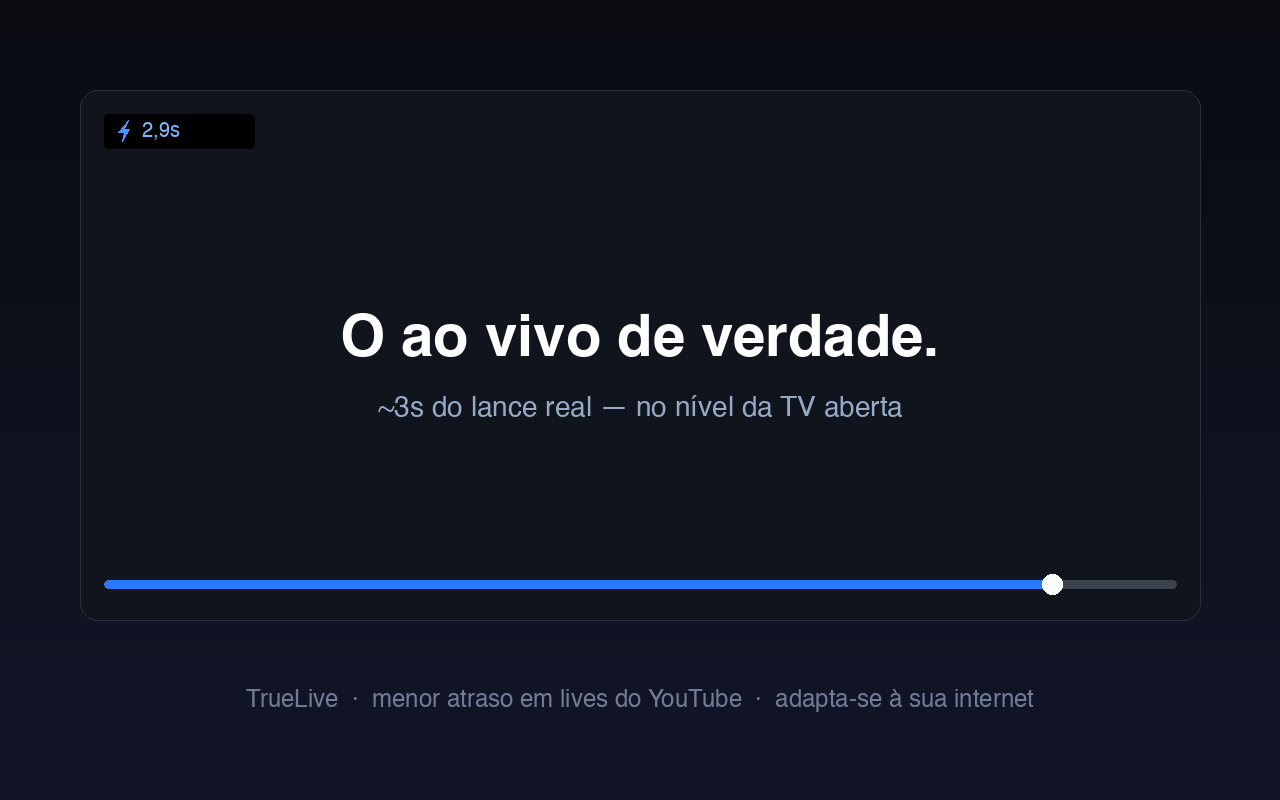
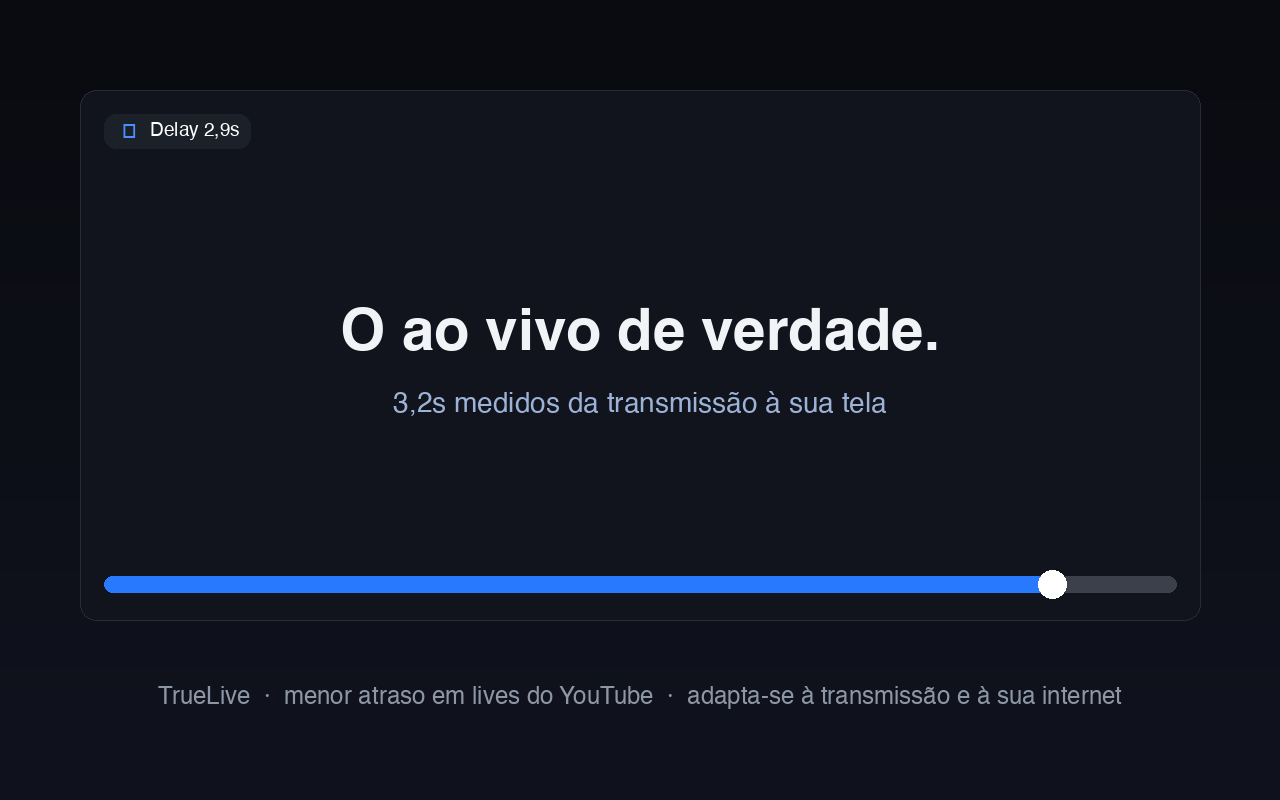
fix: régua honesta — nunca afirmar delay menor que a TV aberta
Nosso 3,2s é medido da INGESTÃO à tela; o ~3-5s da TV aberta é medido do
ESTÁDIO — réguas diferentes. Do estádio, a TV empata ou ganha. Corrigido em:
- landing (hero, corrida do gol sem a lane da TV, barras, meta/og description)
- imagem hero regenerada ('3,2s medidos da transmissão à sua tela')
- README (nota 'régua honesta' + tabela reordenada com TV como referência)
- STORE_LISTING e CHECKLIST (ângulo de divulgação)
Claim honesto: 'território da TV aberta', nunca 'à frente'.

diff --git a/site/index.html b/site/index.html
@@ -5,19 +5,19 @@
     <meta charset="utf-8" />
     <meta name="viewport" content="width=device-width, initial-scale=1" />
     <title>TrueLive — o ao vivo de verdade. Menor delay em lives do YouTube</title>
-    <meta name="description" content="Extensão gratuita e de código aberto que reduz o delay de lives do YouTube pro nível da TV aberta — 3,2s medidos. Sem coleta de dados, adapta-se sozinha à sua internet." />
+    <meta name="description" content="Extensão gratuita e de código aberto que reduz o delay de lives do YouTube pro território da TV aberta — 3,2s medidos da transmissão à tela. Sem coleta de dados, adapta-se sozinha à sua internet." />
     <meta property="og:title" content="TrueLive — o ao vivo de verdade" />
-    <meta property="og:description" content="O gol 3,2 segundos depois do estádio — medido, não prometido. Extensão gratuita pro YouTube." />
-    <meta property="og:image" content="https://truelive.vitorplentz.com.br/assets/screenshot-1-hero.png" />
+    <meta property="og:description" content="O ao vivo de verdade: 3,2s medidos da transmissão à sua tela — não 20 segundos atrás. Extensão gratuita pro YouTube." />
+    <meta property="og:image" content="https://truelive.vitorplentz.com.br/assets/screenshot-1-hero.png?v=3" />
     <meta property="og:type" content="website" />
-    <link rel="icon" href="assets/icon.png" />
-    <link rel="stylesheet" href="assets/style.css" />
+    <link rel="icon" href="assets/icon.png?v=2" />
+    <link rel="stylesheet" href="assets/style.css?v=2" />
     <link rel="alternate" hreflang="en" href="https://truelive.vitorplentz.com.br/en/" />
 </head>
 
 <body>
     <header class="wrap top">
-        <a class="brand" href="/"><img src="assets/icon.png" alt="" /> TrueLive</a>
+        <a class="brand" href="/"><img src="assets/icon.png?v=2" alt="" /> TrueLive</a>
         <nav class="top-nav">
             <a href="#instalar">Instalar</a>
             <a href="#faq">Dúvidas</a>
@@ -29,10 +29,11 @@
     <main>
         <div class="hero">
             <div class="wrap">
-                <h1>O gol, <em>3 segundos</em> depois do estádio.<br />Não 20.</h1>
+                <h1>O ao vivo <em>de verdade</em>.<br />Não 20 segundos atrás.</h1>
                 <p class="sub">O YouTube te segura vários segundos atrás do ao vivo de propósito.
                     O TrueLive elimina esse excesso e te deixa no menor delay que a
-                    <strong>transmissão e a sua internet</strong> permitem — medido de verdade, no player.</p>
+                    <strong>transmissão e a sua internet</strong> permitem — 3,2s medidos da
+                    transmissão à sua tela, no território da TV aberta.</p>
                 <div class="cta-row">
                     <a class="btn primary soon" href="#instalar">Chrome <span class="tag">em breve na loja</span></a>
                     <a class="btn soon" href="#instalar">Firefox <span class="tag">em breve na loja</span></a>
@@ -51,11 +52,6 @@
                         <div class="lane-screen"><span class="lane-wait">aguardando o sinal…</span><span class="lane-goal">⚽ GOOOL!</span></div>
                         <div class="lane-stamp">3,2s</div>
                     </div>
-                    <div class="lane" data-delay="4.0">
-                        <div class="lane-label">TV aberta (antena)</div>
-                        <div class="lane-screen"><span class="lane-wait">aguardando o sinal…</span><span class="lane-goal">⚽ GOOOL!</span></div>
-                        <div class="lane-stamp">~4s</div>
-                    </div>
                     <div class="lane" data-delay="7.0">
                         <div class="lane-label">YouTube padrão</div>
                         <div class="lane-screen"><span class="lane-wait">aguardando o sinal…</span><span class="lane-goal">⚽ GOOOL!</span></div>
@@ -66,7 +62,7 @@
                         <div class="lane-screen"><span class="lane-wait">aguardando o sinal… (é sério, espera)</span><span class="lane-goal">⚽ GOOOL!</span></div>
                         <div class="lane-stamp">~19s</div>
                     </div>
-                    <p class="race-foot">Simulação em tempo real com os delays medidos — você sente a diferença esperando junto.</p>
+                    <p class="race-foot">Simulação em tempo real, delays medidos na mesma transmissão (relógio de ingestão). A TV aberta corre por caminho próprio (~3-5s do estádio) — chegamos no território dela, não à frente.</p>
                 </div>
             </div>
         </div>
@@ -80,11 +76,6 @@
                     <div class="bar-label">YouTube + TrueLive (Super Ao Vivo)</div>
                     <div class="bar-track"><div class="bar-fill" style="width:16%"></div></div>
                     <div class="bar-val"><span data-count="3.2" data-comma="1" data-suffix="s medido">3,2s medido</span></div>
-                </div>
-                <div class="bar-row">
-                    <div class="bar-label">TV aberta (antena digital)</div>
-                    <div class="bar-track"><div class="bar-fill" style="width:20%"></div></div>
-                    <div class="bar-val">~3-5s</div>
                 </div>
                 <div class="bar-row">
                     <div class="bar-label">Outras extensões (só aceleram o vídeo)</div>
@@ -103,7 +94,9 @@
                 </div>
             </div>
             <p class="bars-foot">Redução real medida: <strong>~55%</strong> do delay — e não os "80%" que
-                outros prometem sem medir. Metodologia completa, 16 fontes e limitações declaradas no
+                outros prometem sem medir. A TV aberta corre por outro caminho (~3-5s medidos do
+                estádio, régua diferente): com TrueLive você chega no <strong>território</strong> dela —
+                perto o bastante pra gritar quase junto com o vizinho, não à frente. Metodologia completa, 16 fontes e limitações declaradas no
                 <a href="https://github.com/Pl3ntz/truelive/blob/main/docs/DELAY-BENCHMARK.md">benchmark público</a>.
                 Somos a única extensão que reposiciona o vídeo na borda do que já foi baixado
                 (edge-riding) — todas as outras apenas aceleram a reprodução.</p>
@@ -123,12 +116,12 @@
                     <tr>
                         <td>Ultra-baixa latência</td>
                         <td>~2-5s</td>
-                        <td><strong>~3-4s</strong> — nível TV aberta</td>
+                        <td><strong>~3-4s</strong> — território da TV aberta</td>
                     </tr>
                     <tr>
                         <td>Baixa latência (CazéTV, esports, a maioria)</td>
                         <td>~5-10s</td>
-                        <td><strong>~3-4s</strong> — nível TV aberta</td>
+                        <td><strong>~3-4s</strong> — território da TV aberta</td>
                     </tr>
                     <tr class="dim">
                         <td>Latência normal (padrão do YouTube)</td>
@@ -175,7 +168,7 @@
                 <span class="badge-demo-note">O badge no player mostra seu delay real caindo, ao vivo — assim, do jeito que você vai ver.</span>
             </div>
             <div class="hero-shot reveal">
-                <img src="assets/screenshot-1-hero.png" loading="lazy"
+                <img src="assets/screenshot-1-hero.png?v=3" loading="lazy"
                     alt="Player do YouTube com o badge do TrueLive mostrando 2,9 segundos de delay" />
             </div>
         </section>
@@ -234,7 +227,7 @@
             <p class="lead">O TrueLive é feito por uma pessoa, de graça e com código aberto.
                 Doação via PIX — você escolhe o valor no app do seu banco:</p>
             <div class="donate">
-                <div class="qr"><img src="assets/pix-qr.svg" alt="QR Code PIX para doação" /></div>
+                <div class="qr"><img src="assets/pix-qr.svg?v=2" alt="QR Code PIX para doação" /></div>
                 <div>
                     <p>Aponte a câmera do app do banco pro QR Code, ou copie o código:</p>
                     <button class="copy-pix" type="button"
@@ -298,7 +291,7 @@
         </div>
     </footer>
 
-    <script src="assets/app.js"></script>
+    <script src="assets/app.js?v=2"></script>
 </body>
 
 </html>

diff --git a/site/en/index.html b/site/en/index.html
@@ -8,16 +8,16 @@
     <meta name="description" content="Free, open-source extension that cuts YouTube live stream delay down to broadcast-TV territory — a measured 3.2s. No data collection, adapts to your connection automatically." />
     <meta property="og:title" content="TrueLive — actually live" />
     <meta property="og:description" content="The goal, 3.2 seconds after the stadium — measured, not promised. Free extension for YouTube." />
-    <meta property="og:image" content="https://truelive.vitorplentz.com.br/assets/screenshot-1-hero.png" />
+    <meta property="og:image" content="https://truelive.vitorplentz.com.br/assets/screenshot-1-hero.png?v=3" />
     <meta property="og:type" content="website" />
-    <link rel="icon" href="../assets/icon.png" />
-    <link rel="stylesheet" href="../assets/style.css" />
+    <link rel="icon" href="../assets/icon.png?v=2" />
+    <link rel="stylesheet" href="../assets/style.css?v=2" />
     <link rel="alternate" hreflang="pt-BR" href="https://truelive.vitorplentz.com.br/" />
 </head>
 
 <body>
     <header class="wrap top">
-        <a class="brand" href="/en/"><img src="../assets/icon.png" alt="" /> TrueLive</a>
+        <a class="brand" href="/en/"><img src="../assets/icon.png?v=2" alt="" /> TrueLive</a>
         <nav class="top-nav">
             <a href="#install">Install</a>
             <a href="#faq">FAQ</a>
@@ -29,10 +29,11 @@
     <main>
         <div class="hero">
             <div class="wrap">
-                <h1>The goal, <em>3 seconds</em> after the stadium.<br />Not 20.</h1>
+                <h1><em>Actually</em> live.<br />Not 20 seconds behind.</h1>
                 <p class="sub">YouTube deliberately holds you several seconds behind the live edge.
                     TrueLive removes that excess and keeps you at the lowest delay
-                    <strong>the stream and your internet</strong> allow — actually measured, in the player.</p>
+                    <strong>the stream and your internet</strong> allow — a measured 3.2s from the
+                    broadcast to your screen, broadcast-TV territory.</p>
                 <div class="cta-row">
                     <a class="btn primary soon" href="#install">Chrome <span class="tag">store — coming soon</span></a>
                     <a class="btn soon" href="#install">Firefox <span class="tag">store — coming soon</span></a>
@@ -51,11 +52,6 @@
                         <div class="lane-screen"><span class="lane-wait">waiting for the signal…</span><span class="lane-goal">⚽ GOAL!</span></div>
                         <div class="lane-stamp">3.2s</div>
                     </div>
-                    <div class="lane" data-delay="4.0">
-                        <div class="lane-label">Broadcast TV (antenna)</div>
-                        <div class="lane-screen"><span class="lane-wait">waiting for the signal…</span><span class="lane-goal">⚽ GOAL!</span></div>
-                        <div class="lane-stamp">~4s</div>
-                    </div>
                     <div class="lane" data-delay="7.0">
                         <div class="lane-label">Plain YouTube</div>
                         <div class="lane-screen"><span class="lane-wait">waiting for the signal…</span><span class="lane-goal">⚽ GOAL!</span></div>
@@ -66,7 +62,7 @@
                         <div class="lane-screen"><span class="lane-wait">waiting for the signal… (seriously, wait)</span><span class="lane-goal">⚽ GOAL!</span></div>
                         <div class="lane-stamp">~19s</div>
                     </div>
-                    <p class="race-foot">Real-time simulation using measured delays — you feel the gap by waiting through it.</p>
+                    <p class="race-foot">Real-time simulation, delays measured on the same stream (ingestion clock). Broadcast TV runs its own path (~3-5s from the stadium) — we reach its territory, not ahead of it.</p>
                 </div>
             </div>
         </div>
@@ -82,11 +78,6 @@
                     <div class="bar-val">3.2s measured</div>
                 </div>
                 <div class="bar-row">
-                    <div class="bar-label">Broadcast TV (digital antenna)</div>
-                    <div class="bar-track"><div class="bar-fill" style="width:20%"></div></div>
-                    <div class="bar-val">~3-5s</div>
-                </div>
-                <div class="bar-row">
                     <div class="bar-label">Other extensions (speed-up only)</div>
                     <div class="bar-track"><div class="bar-fill" style="width:29%"></div></div>
                     <div class="bar-val">4.5-7s</div>
@@ -98,7 +89,9 @@
                 </div>
             </div>
             <p class="bars-foot">Real measured reduction: <strong>~55%</strong> of the delay — not the
-                unmeasured "80%" others promise. Full methodology, 16 sources and declared limitations in the
+                unmeasured "80%" others promise. Broadcast TV runs a different path (~3-5s measured
+                from the stadium — a different ruler): TrueLive gets you into its <strong>territory</strong>,
+                close enough to shout almost together with your neighbor, not ahead of it. Full methodology, 16 sources and declared limitations in the
                 <a href="https://github.com/Pl3ntz/truelive/blob/main/docs/DELAY-BENCHMARK.md">public benchmark</a>.
                 TrueLive is the only extension that repositions playback at the edge of what's already
                 downloaded (edge-riding) — every other one just speeds up the video.</p>
@@ -171,7 +164,7 @@
                 <span class="badge-demo-note">The in-player badge shows your real delay dropping, live — exactly like this.</span>
             </div>
             <div class="hero-shot reveal">
-                <img src="../assets/screenshot-1-hero.png" loading="lazy"
+                <img src="../assets/screenshot-1-hero.png?v=3" loading="lazy"
                     alt="YouTube player with the TrueLive badge showing 2.9 seconds of delay" />
             </div>
         </section>
@@ -281,7 +274,7 @@
         </div>
     </footer>
 
-    <script src="../assets/app.js"></script>
+    <script src="../assets/app.js?v=2"></script>
 </body>
 
 </html>

diff --git a/README.md b/README.md
@@ -18,9 +18,15 @@ Quem define a classe de latência é o **canal**, na hora de transmitir:
 
 | Classe da stream (escolha do canal) | Piso físico | Com TrueLive você fica em |
 |---|---|---|
-| Ultra-baixa latência | ~2-5s | **~3-4s** — nível TV aberta |
-| Baixa latência (CazéTV, esports) | ~5-10s | **~3-4s** — nível TV aberta |
+| Ultra-baixa latência | ~2-5s | **~3-4s** — território da TV aberta |
+| Baixa latência (CazéTV, esports) | ~5-10s | **~3-4s** — território da TV aberta |
 | Latência normal (padrão do YouTube) | ~10-30s | **o piso da stream** (~10s+) |
+
+> **Régua honesta:** nossos números são medidos da **ingestão** (encoder do
+> YouTube) até a tela; o ~3-5s da TV aberta é medido **do estádio**. São réguas
+> diferentes — contando do estádio, o caminho do streaming ainda soma o trecho
+> até o YouTube, então a TV aberta **empata ou ganha**. O TrueLive te coloca no
+> território dela, nunca "à frente da TV".
 
 Em latência normal, o vídeo mais novo **nem chega** ao seu computador antes
 disso — nenhuma extensão fura esse piso, e quem prometer o contrário está
@@ -35,8 +41,8 @@ relógio de ingestão do próprio player, mesma máquina e mesma stream:
 
 | Como você assiste | Delay | Comprovação |
 |---|---|---|
-| **YouTube + TrueLive (Super Ao Vivo)** | **3,2s medido** (~3,5s na calibração atual, mais conservadora) | benchmark próprio A/B/C |
-| TV aberta (antena digital, vs estádio) | ~3-5s | convergência imprensa/indústria |
+| TV aberta (antena digital — régua própria: medida do estádio) | ~3-5s | convergência imprensa/indústria |
+| **YouTube + TrueLive (Super Ao Vivo)** | **3,2s medido** da ingestão (~3,5s na calibração atual) | benchmark próprio A/B/C |
 | Catch-up 1.25x (a técnica dos concorrentes) | 4,5-7s, serrilhado | medido + derivado do código deles |
 | YouTube padrão (live low-latency, sem extensão) | 7,0-7,3s | medido |
 | CazéTV na Copa 2026 | +15-20s atrás da Globo | medição independente (Canaltech) |

diff --git a/publishing/STORE_LISTING.md b/publishing/STORE_LISTING.md
@@ -4,8 +4,8 @@
 TrueLive — menor atraso em lives
 
 ## Resumo curto (132 chars max)
-Assista lives do YouTube com o menor atraso que a sua internet permite — no
-nível da TV aberta. Adapta-se sozinho. Sem coleta.
+Assista lives do YouTube com o menor atraso que a transmissão e a sua
+internet permitem. Adapta-se sozinho. Sem coleta.
 
 ## Descrição longa
 
@@ -24,8 +24,8 @@ O TrueLive te deixa colado no ponto mais recente disponível:
   do vivo você está — medido de verdade, não estimado.
 
 Quanto você ganha depende da transmissão (quem escolhe a classe de latência é
-o canal): em streams de baixa latência (CazéTV, esports), medimos ~3-4s do
-lance — território de TV aberta, contra ~7s do player padrão. Em canais que
+o canal): em streams de baixa latência (CazéTV, esports), medimos ~3-4s da
+transmissão à tela — território de TV aberta, contra ~7s do player padrão. Em canais que
 transmitem em latência normal, o piso físico é maior (~10s+) e NENHUMA
 extensão fura esse limite — o TrueLive te garante o mínimo possível dali.
 Números medidos e verificados, com metodologia pública no repositório.

diff --git a/publishing/CHECKLIST.md b/publishing/CHECKLIST.md
@@ -22,5 +22,5 @@
 - [ ] LICENSE + THIRD-PARTY-NOTICES no zip (já embarcados)
 
 ## Divulgação
-- [ ] Post de lançamento (ângulo: "o gol no nível da TV aberta, medido")
+- [ ] Post de lançamento (ângulo: "chega junto do território da TV aberta — 3,2s medidos, ~16s à frente da CazéTV padrão")
 - [ ] Comunidades: r/futebol, r/CazeTV, X/Twitter tech-BR